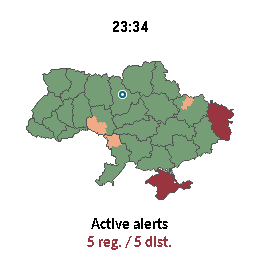
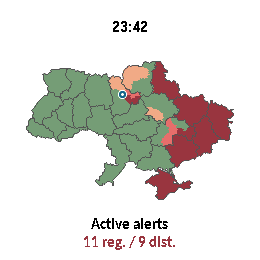
docs(appstore): update store screenshots with realistic threat-level mock data

diff --git a/src/pkjs/mock_alerts.js b/src/pkjs/mock_alerts.js
@@ -1,0 +1,55 @@
+// Mock alert data for generating store screenshots with full functional showcase
+
+function getMockAlertsData(nowMs) {
+  var now = typeof nowMs === 'number' ? nowMs : Date.now();
+  var minAgo = function(m) { return new Date(now - m * 60000).toISOString(); };
+
+  return {
+    states: {
+      "АР Крим": { enabled: true, alert_level: "red", enabled_at: minAgo(125) },
+      "Севастополь": { enabled: true, alert_level: "red", enabled_at: minAgo(125) },
+      "Луганська область": { enabled: true, alert_level: "red", enabled_at: minAgo(190) },
+      "Донецька область": { enabled: true, alert_level: "red", enabled_at: minAgo(95) },
+      "Харківська область": { enabled: true, alert_level: "red", enabled_at: minAgo(55) },
+      "Запорізька область": { enabled: true, alert_level: "red", enabled_at: minAgo(40) },
+      "Сумська область": { enabled: true, alert_level: "red", enabled_at: minAgo(25) },
+      "м. Київ": { enabled: true, alert_level: "red", enabled_at: minAgo(18) },
+      "Київська область": {
+        enabled: false,
+        districts: {
+          "Вишгородський район": { enabled: true, alert_level: "yellow", enabled_at: minAgo(22) },
+          "Броварський район": { enabled: true, alert_level: "orange", enabled_at: minAgo(32) },
+          "Бориспільський район": { enabled: true, alert_level: "red", enabled_at: minAgo(18) }
+        }
+      },
+      "Дніпропетровська область": {
+        enabled: false,
+        districts: {
+          "Дніпровський район": { enabled: true, alert_level: "orange", enabled_at: minAgo(45) },
+          "Синельниківський район": { enabled: true, alert_level: "red", enabled_at: minAgo(50) },
+          "Нікопольський район": { enabled: true, alert_level: "orange", enabled_at: minAgo(65) }
+        }
+      },
+      "Полтавська область": {
+        enabled: false,
+        districts: {
+          "Кременчуцький район": { enabled: true, alert_level: "yellow", enabled_at: minAgo(12) }
+        }
+      },
+      "Чернігівська область": {
+        enabled: false,
+        districts: {
+          "Чернігівський район": { enabled: true, alert_level: "yellow", enabled_at: minAgo(20) },
+          "Корюківський район": { enabled: true, alert_level: "yellow", enabled_at: minAgo(25) }
+        }
+      }
+    }
+  };
+}
+
+var MOCK_USER_LOCATION = { x: 4650, y: 2421 }; // Kyiv center
+
+module.exports = {
+  getMockAlertsData: getMockAlertsData,
+  MOCK_USER_LOCATION: MOCK_USER_LOCATION
+};

diff --git a/src/pkjs/index.js b/src/pkjs/index.js
@@ -1,5 +1,9 @@
 var mapping = require('./mapping.json');
 var parser = require('./alerts_parser.js');
+var mockAlerts = require('./mock_alerts.js');
+
+// Set to true only when capturing mock screenshots for store/testing
+var USE_MOCK_DATA = false;
 
 var API_URL = 'https://vadimklimenko.com/map/statuses.json';
 var FALLBACK_URL = 'http://ubilling.net.ua/aerialalerts/';
@@ -9,6 +13,10 @@ var userLocation = null;
 var lastAlertData = null;
 
 function updateUserLocation() {
+  if (USE_MOCK_DATA) {
+    userLocation = mockAlerts.MOCK_USER_LOCATION;
+    return;
+  }
   if (typeof navigator !== 'undefined' && navigator.geolocation) {
     navigator.geolocation.getCurrentPosition(
       function(pos) {
@@ -87,6 +95,13 @@ function requestJson(url, callback) {
 }
 
 function fetchAlertData() {
+  if (USE_MOCK_DATA) {
+    userLocation = mockAlerts.MOCK_USER_LOCATION;
+    var mockData = mockAlerts.getMockAlertsData();
+    lastAlertData = mockData;
+    sendParsedAlerts(mockData);
+    return;
+  }
   updateUserLocation();
 
   requestJson(API_URL, function(err, data) {
